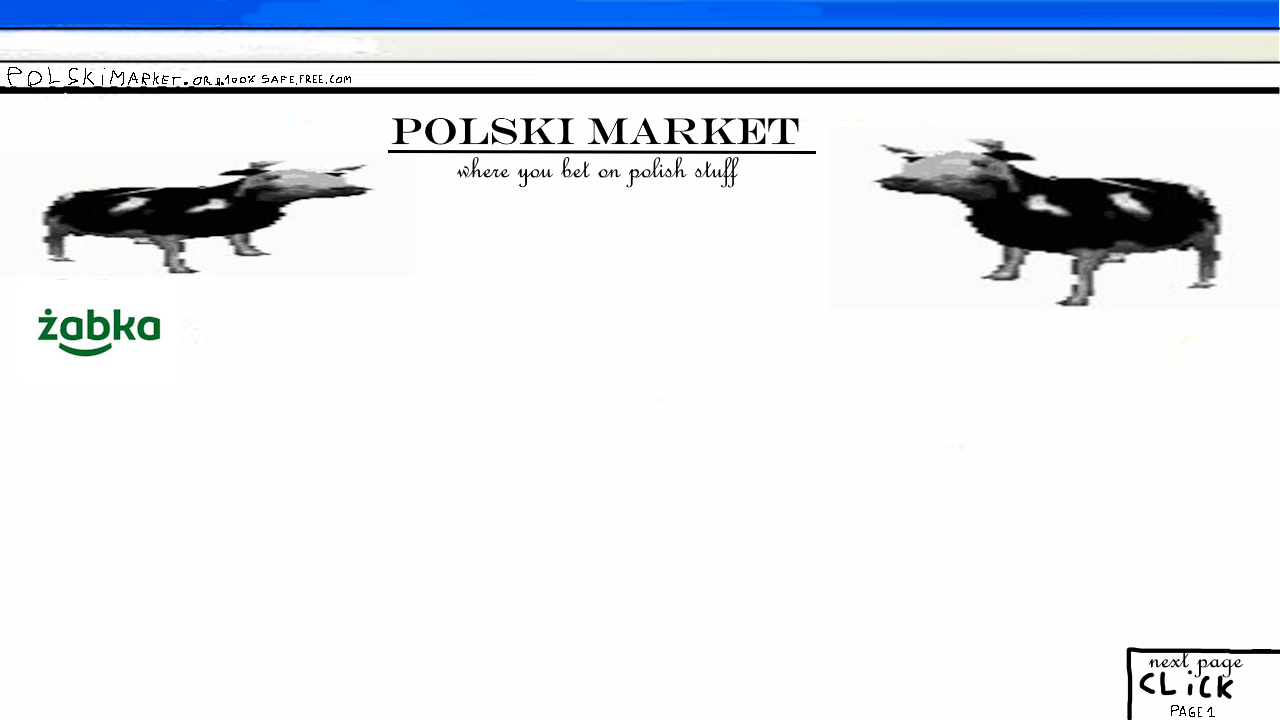
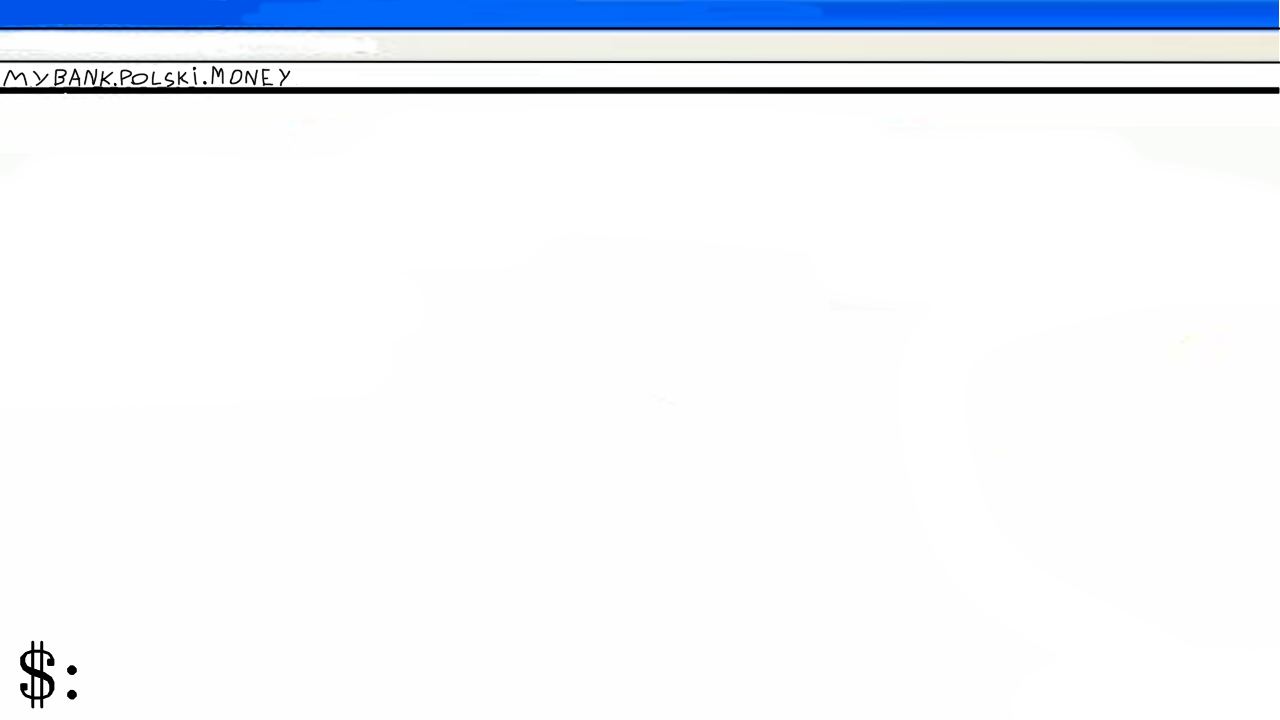
bank

diff --git a/pc.py b/pc.py
@@ -2,7 +2,7 @@ import os, pygame, sys
 
 WIDTH, HEIGHT = 1280, 720
 ART_W, ART_H = 1920, 1080
-SCREEN_RECT = pygame.Rect(458, 150, 935, 535)
+SCREEN_POS =(333, 116)
 BASE = os.path.dirname(os.path.abspath(__file__))
 
 def load(img):
@@ -45,6 +45,8 @@ class Browser:
         self.cards = [Button(n, (40 + i * 380, 200)) for i, n in enumerate(("card_market.png", "card_wiki.png", "card_bank.png"))]
         self.sites = [load(n) for n in ("market.png", "wiki.png", "bank.png")]
         self.step = self.tab.get_width() + self.TAB_GAP
+        self.player = None
+        self.font = pygame.font.SysFont(None, 60, True)
 
         self.open = False
         self.tabs = []
@@ -115,6 +117,9 @@ class Browser:
             self.back.draw(canvas, mouse)
             if cur is self.sites[0]:
                 self.join.draw(canvas, mouse)
+            if cur is self.sites[2]:
+                text = self.font.render(f"{self.player.cash}", True, (0, 0, 0))
+                canvas.blit(text, (90, 665))
         rects = self.tab_rects()
         order = [i for i in range(len(self.tabs)) if i != self.dragging] + ([self.dragging] if self.dragging is not None else [])
         for i in order:
@@ -139,24 +144,22 @@ class Desktop:
             self.browser.draw(canvas, mouse)
 
 class Monitor:
-    def __init__(self, window):
-        w, h = window.get_size()
-        self.frame = pygame.transform.scale(OUTSIDE, (w, h))
-        self.area = pygame.Rect(SCREEN_RECT.x * w / ART_W, SCREEN_RECT.y * h / ART_H, SCREEN_RECT.w * w / ART_W, SCREEN_RECT.h * h / ART_H)
+    def __init__(self, screen):
+        self.coeff = screen.get_width() / ART_W
+        self.frame = pygame.transform.scale(OUTSIDE, screen.get_size())
+        self.pos = (int(SCREEN_POS[0] * self.coeff), int(SCREEN_POS[1] * self.coeff))
+        self.size = (int(WIDTH * self.coeff), int(HEIGHT * self.coeff))
 
     def to_desktop(self, pos):
-        return (int((pos[0] - self.area.x) * WIDTH / self.area.w), int((pos[1] - self.area.y) * HEIGHT / self.area.h))
-
-    def draw(self, window, canvas):
-        window.fill((80, 80, 80))
-        window.blit(self.frame, (0, 0))
-        window.blit(pygame.transform.scale(canvas, self.area.size), self.area.topleft)
+        return (int(pos[0] - self.pos[0]) / self.coeff, int(pos[1] - self.pos[1]) / self.coeff)
 
 OUTSIDE = load("computer_outside.png")
-canvas, clock, desktop = pygame.Surface((WIDTH, HEIGHT)), pygame.time.Clock(), Desktop()
+clock, desktop = pygame.time.Clock(), Desktop()
 
-def run(window, player):
-    monitor, desktop.player = Monitor(window), player
+def run(screen, player):
+    pc_window = pygame.Surface((WIDTH, HEIGHT))
+    monitor, desktop.player = Monitor(screen), player
+    desktop.browser.player = player
     while True:
         clock.tick(60)
         for e in pygame.event.get():
@@ -169,6 +172,9 @@ def run(window, player):
             if hasattr(e, "pos"):
                 e.pos = monitor.to_desktop(e.pos)
             desktop.handle(e)
-        desktop.draw(canvas, monitor.to_desktop(pygame.mouse.get_pos()))
-        monitor.draw(window, canvas)
+
+        desktop.draw(pc_window, monitor.to_desktop(pygame.mouse.get_pos()))  
+        screen.fill((80, 80, 80))
+        screen.blit(monitor.frame, (0, 0))
+        screen.blit(pygame.transform.scale(pc_window, monitor.size), monitor.pos)
         pygame.display.flip()
